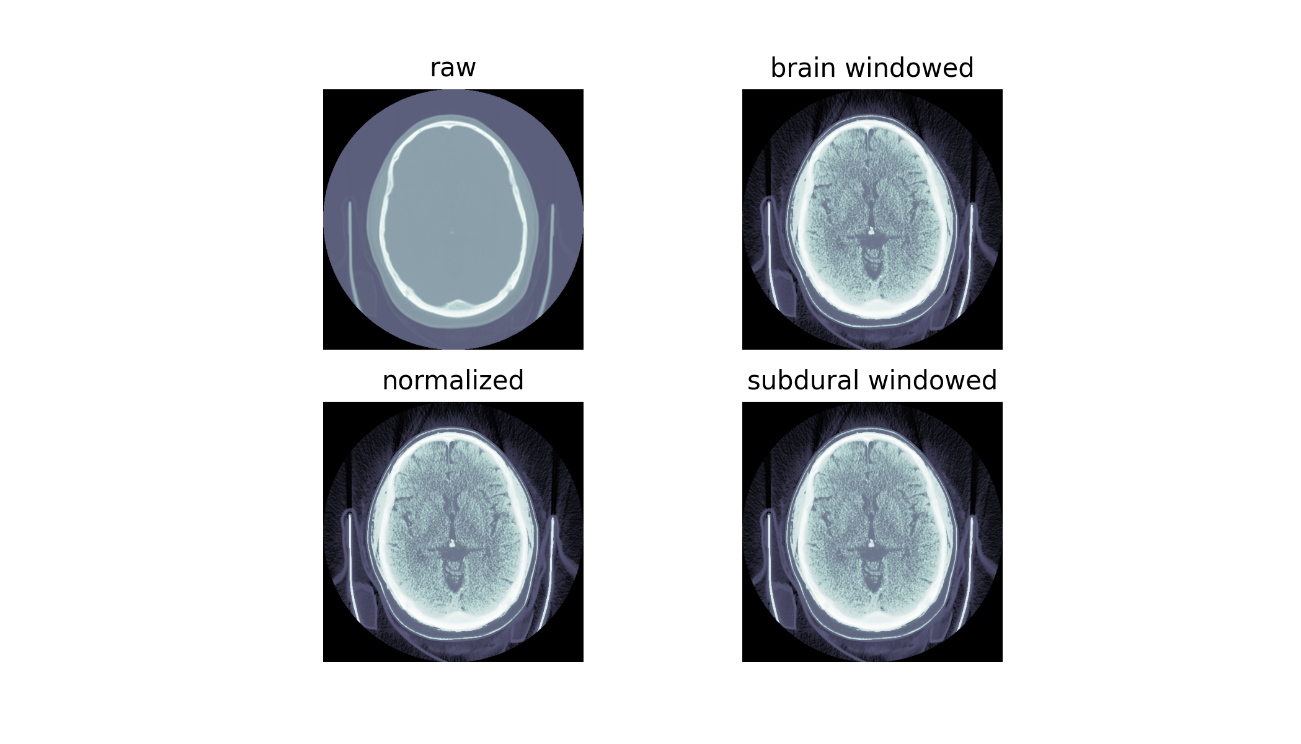
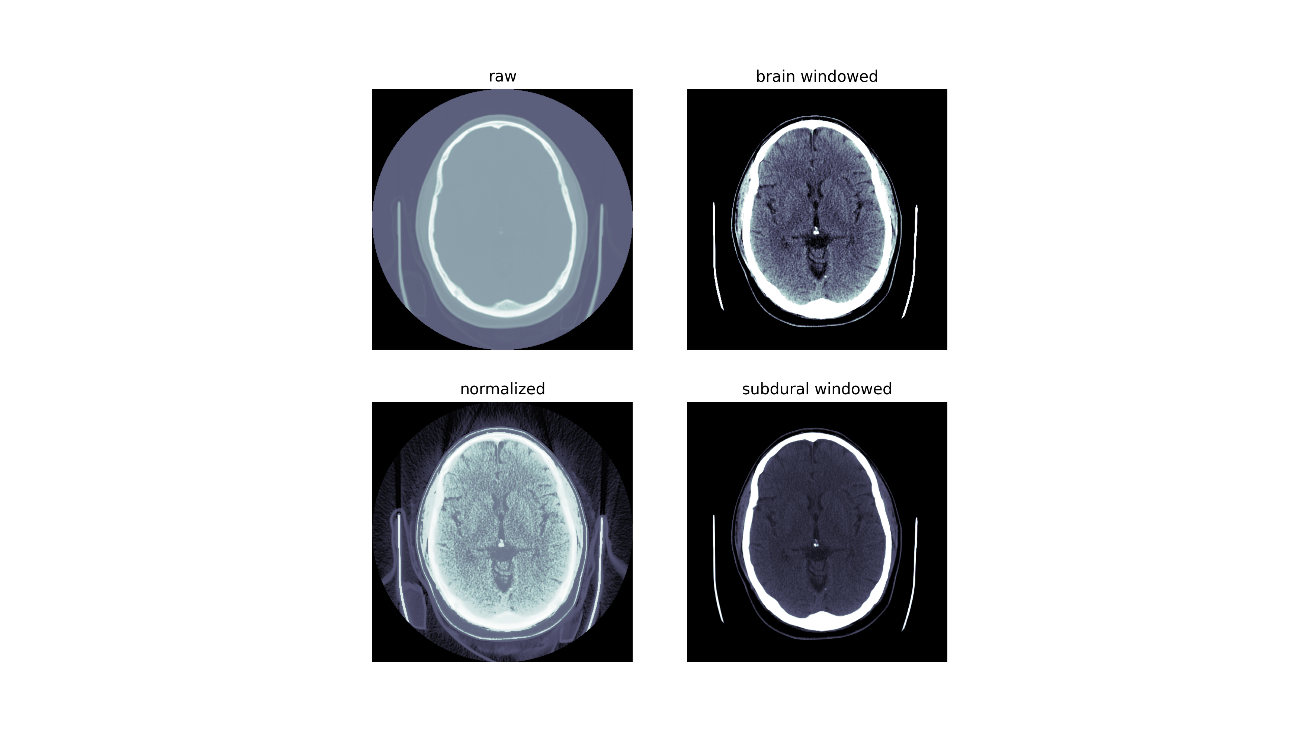
fix subplots//brain

Changed region(s): [[0.5227, 0.0618, 0.7686, 0.8965], [0.246, 0.0618, 0.4919, 0.8965]]

diff --git a/README.md b/README.md
@@ -1085,16 +1085,16 @@ img = dcmread('hemorrhage.dcm')
 Visualize data with different [window effects](https://radiopaedia.org/articles/windowing-ct):
 
 ```
-scales = list(FALSE, TRUE, dicom_windows$brain, dicom_windows$subdural)
+scale = list(FALSE, TRUE, dicom_windows$brain, dicom_windows$subdural)
 titles = c('raw','normalized','brain windowed','subdural windowed')
 
 library(zeallot)
 c(fig, axs) %<-% subplots()
 
 for (i in 1:4) {
-  img %>% show(scale = ifelse(is.list(scales[i]),
-                                      unlist(scales[i]), scales[i]), 
-                                      ax = axs[[i]], title = titles[i])
+  img %>% show(scale = scale[[i]], 
+               ax = axs[[i]], 
+               title=titles[i])
 }
 
 img %>% plot(dpi = 250)
